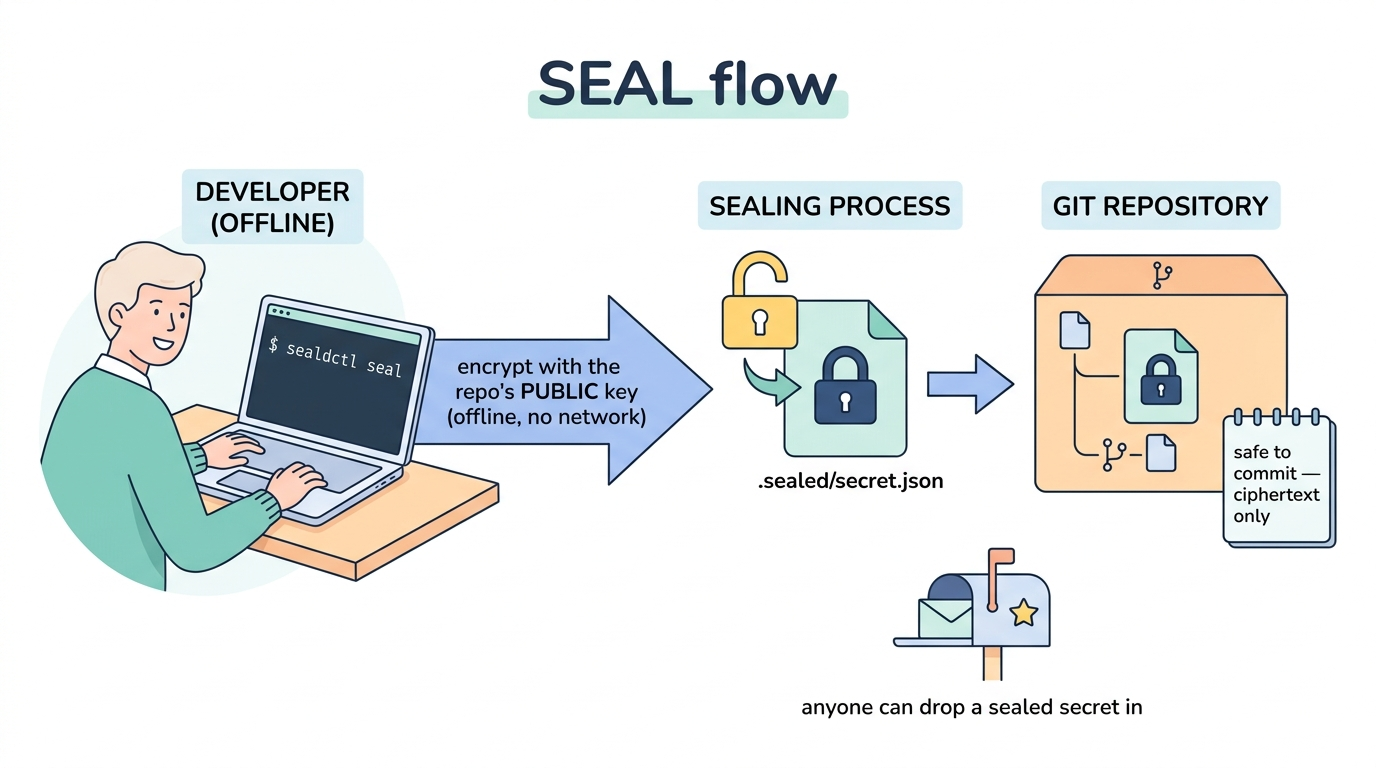
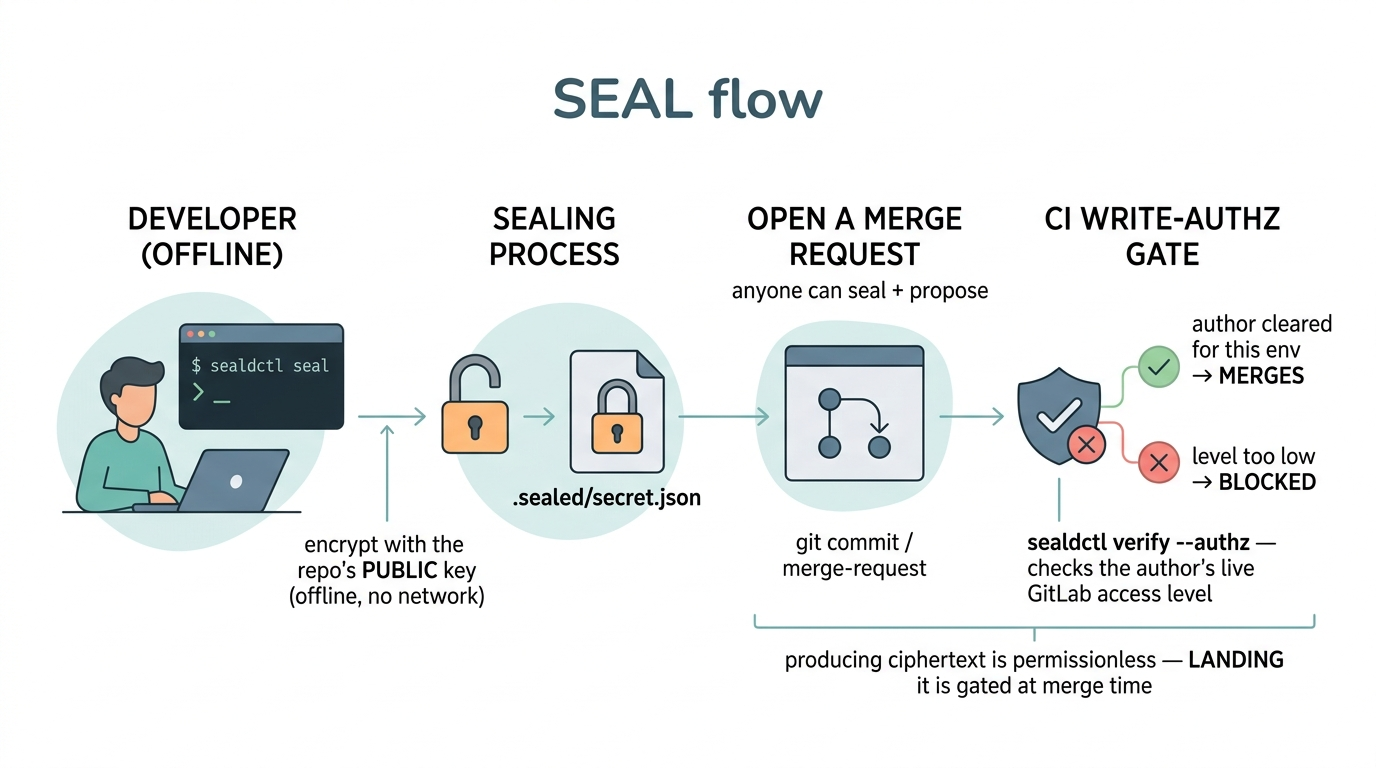
docs: fix seal-flow + architecture diagrams
- architecture.png: remove leaked internal identifiers (gitlab.geekstudio.kg,
  1Password) — replace with gitlab.example.com + generic out-of-band secret store.
  (Raster leak that text grep + the docs/img-excluded re-clone scan missed.)
- seal-flow.png: the old diagram ended the write path at 'anyone can drop a sealed
  secret in / safe to commit' — ungated. New version shows the CI write-authz gate
  (author's live GitLab level must clear the env threshold) before a change merges.
- FAQ: cross-link the 'seal a secret I can't read' answer to the merge-gate note.

diff --git a/README.md b/README.md
@@ -444,7 +444,9 @@ locks for two keyholders; intentional, not redundant.
 have (`glab`). That's the whole point.
 
 **Can I seal a secret I'm not allowed to read?** Yes — sealing only needs the repo's
-public key. You can contribute a secret you can't read back. Harmless and intentional.
+public key, so you can contribute a value you can't read back. Harmless and intentional.
+(Whether that change *merges* is still gated by the CI write-authz check for the target
+environment — see ["Can I change a secret I can't read?"](#faq) above.)
 
 **What if the broker is down?** You can't *unseal* (fail-closed). You can still
 *seal* — that's offline.